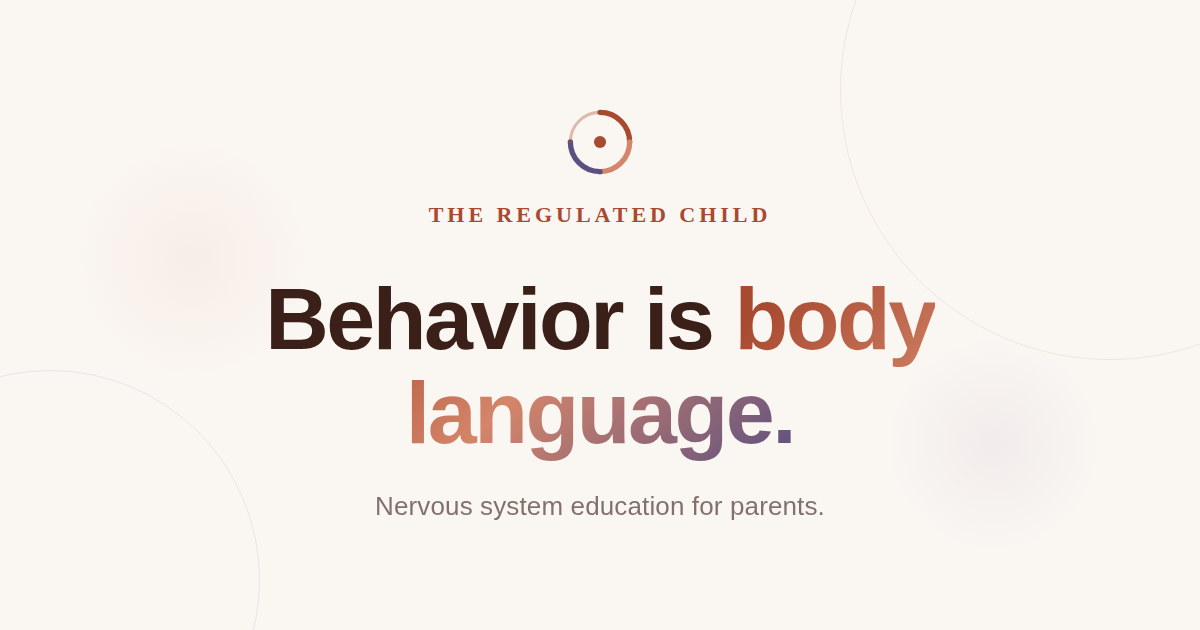
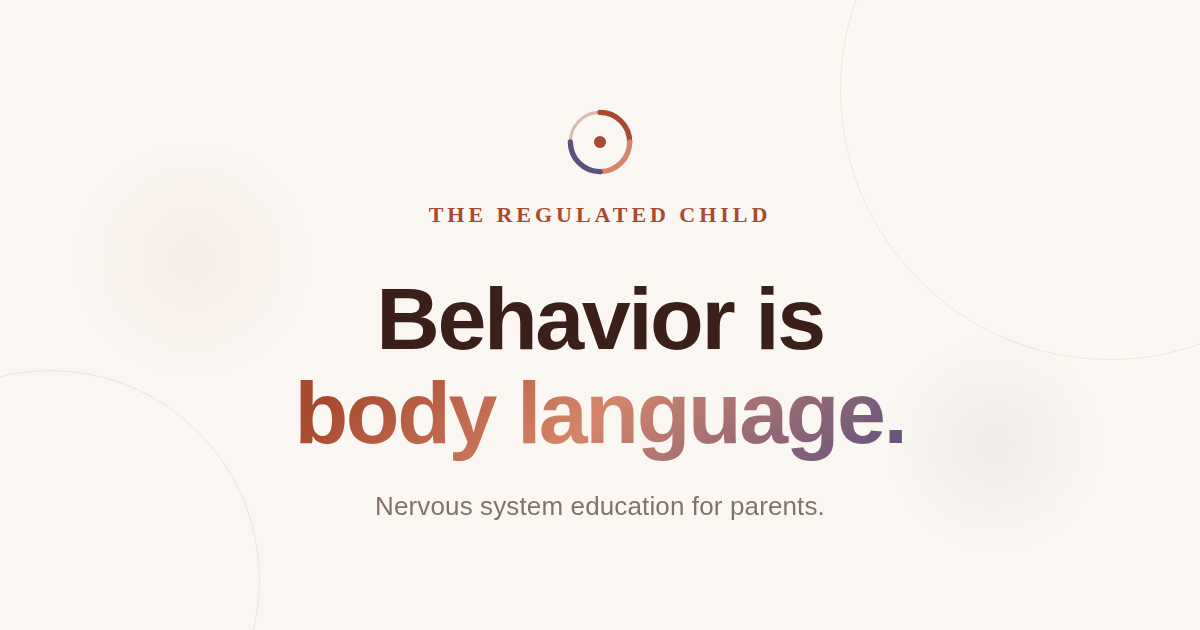
Adjust OG card headline to match landing page wrap
Use explicit line break so 'Behavior is' / 'body language.' wraps
the same way as the hero on the landing page (gradient on line 2).

Changed region(s): [[0.2158, 0.4524, 0.8017, 0.6032], [0.2467, 0.6032, 0.7708, 0.754]]

diff --git a/theme-overrides/social/og.html b/theme-overrides/social/og.html
@@ -87,7 +87,7 @@
       <circle cx="100" cy="100" r="16" fill="#A84A30"/>
     </svg>
     <div class="wordmark">The Regulated Child</div>
-    <h1>Behavior is <span class="grad">body language.</span></h1>
+    <h1>Behavior is<br><span class="grad">body language.</span></h1>
     <p class="sub">Nervous system education for parents.</p>
   </div>
 </body>
